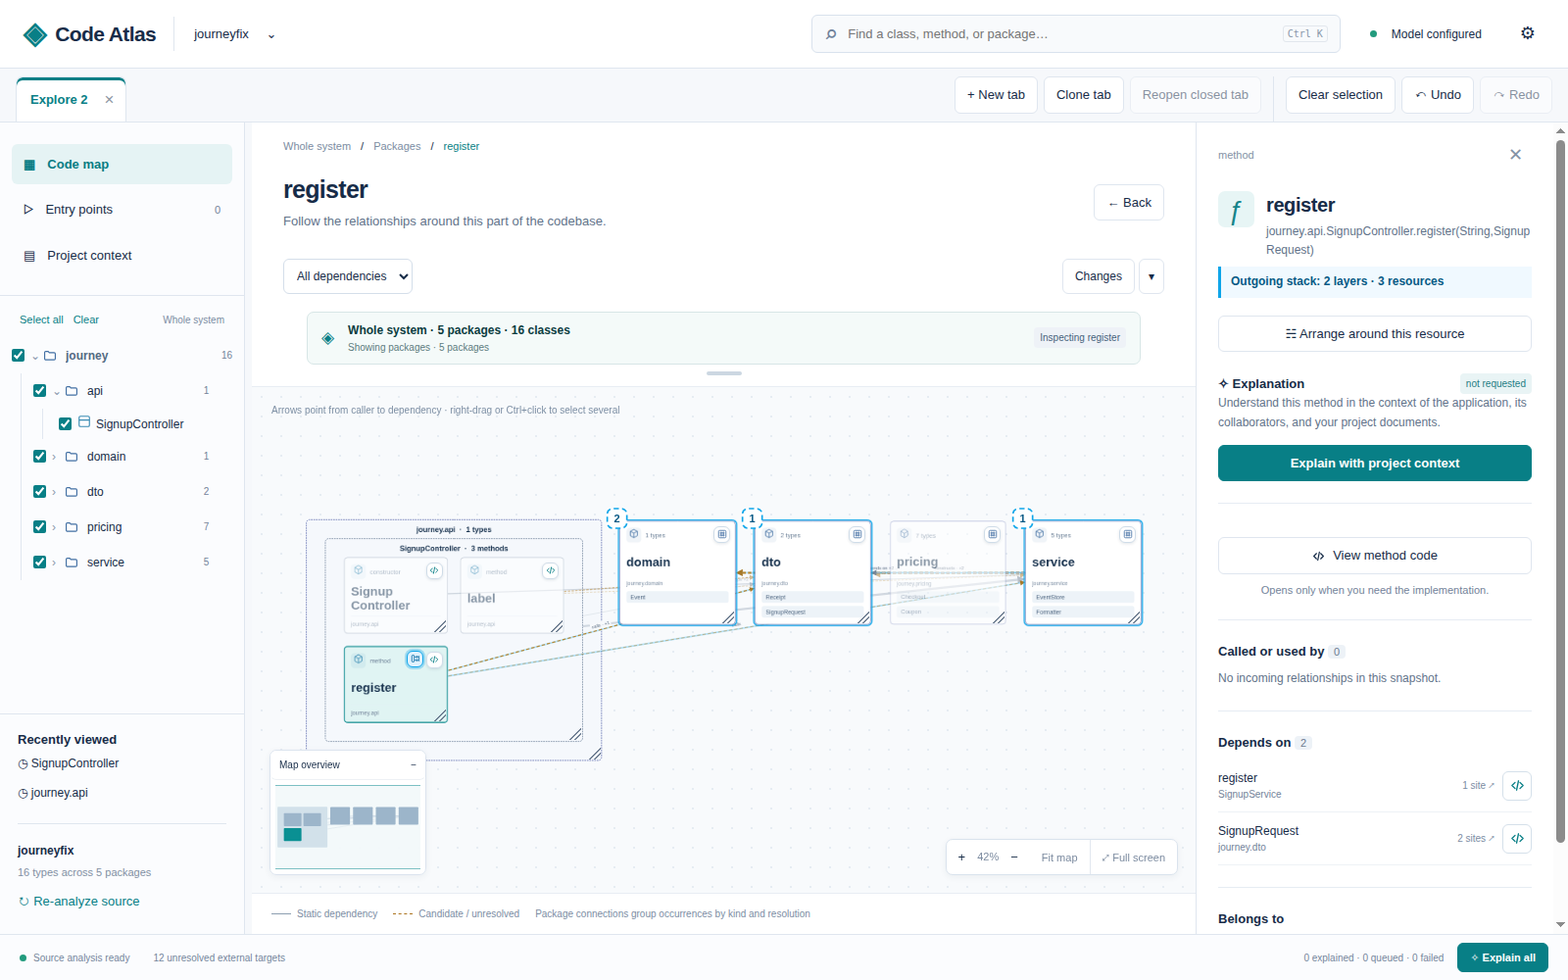
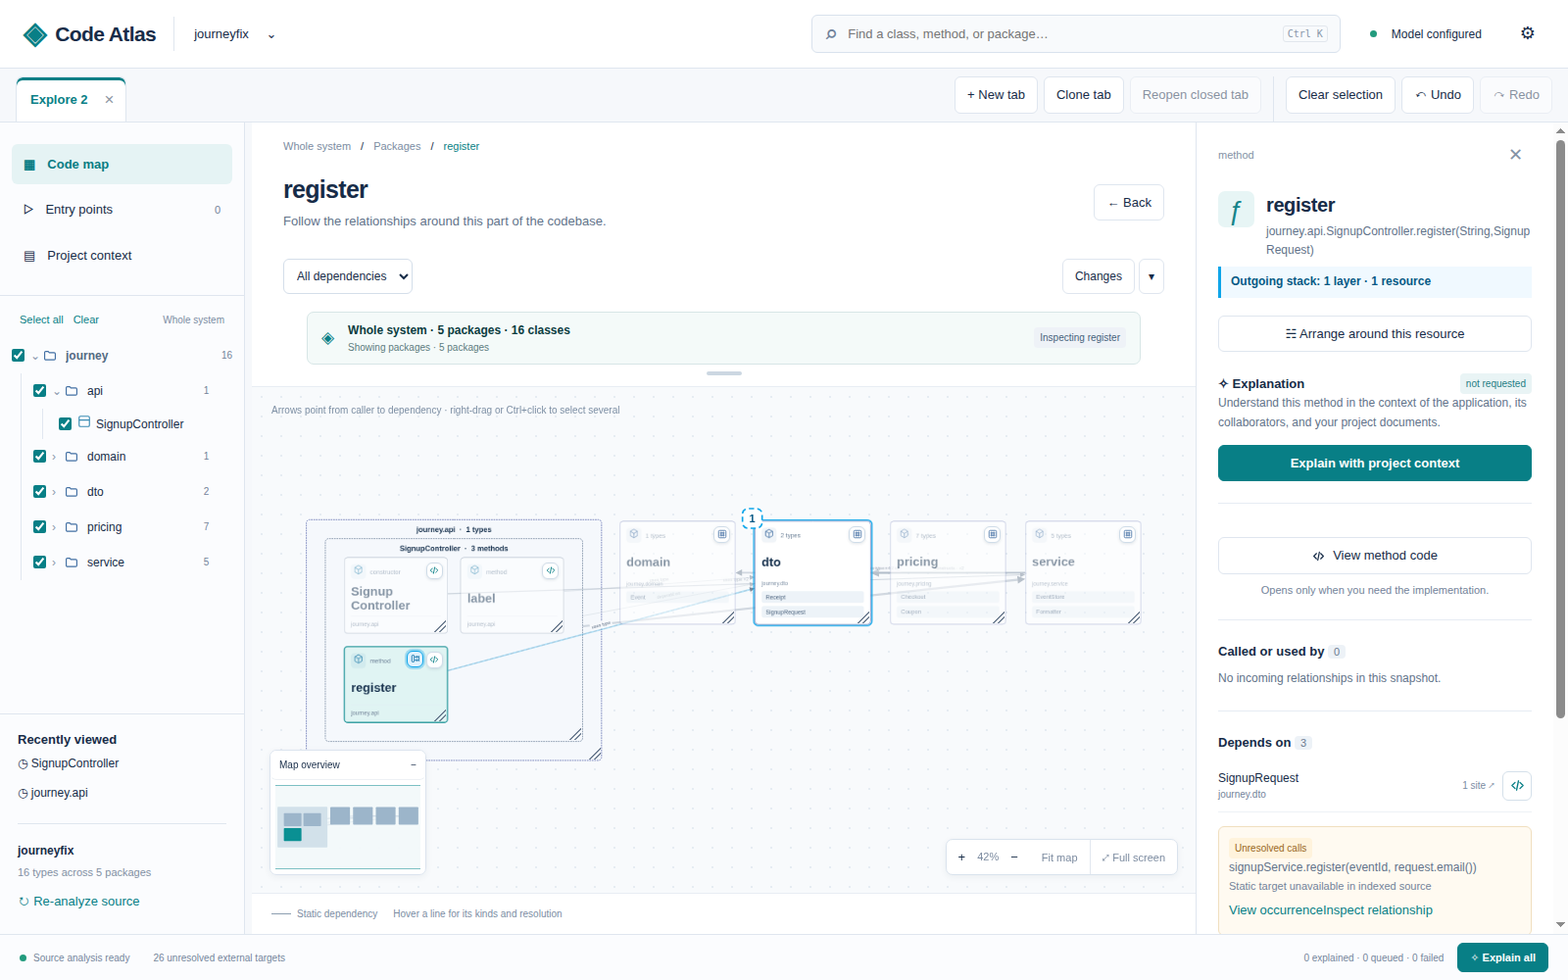
fix(review): capture analysis finds source roots by the workspace layout
A workspace that is a Git repository rooted at a src directory (main/java,
test/java) lost every solver-dependent fact in Changes mode: the review
captures under capture-*/base|head matched no src/main/java root, so e.g.
DeveloperWorkflowTest -> ExplanationResponse vanished. runReviewAnalysis now
passes the workspace root and setupSymbolSolver matches source roots by its
layout; ordinary analysis is unchanged (ADR 0006 amendment).
ReviewSourceRootParityTest reproduces it (red before, green after).

Also the step 12 follow-up PROJECT_STATUS entry, the refreshed
outgoing-stack evidence and the lead verification record.

Squashes b0bee6f, 072552a and dfc039e.

Claude-Session: https://claude.ai/code/session_01CpTnT7g7tBue4wsm3SGsik

diff --git a/src/test/java/dev/codeatlas/review/ReviewSourceRootParityTest.java b/src/test/java/dev/codeatlas/review/ReviewSourceRootParityTest.java
@@ -1,0 +1,121 @@
+package dev.codeatlas.review;
+
+import dev.codeatlas.analysis.AnalysisService;
+import dev.codeatlas.api.dto.ReviewRequest;
+import dev.codeatlas.api.dto.ReviewResponse;
+import org.junit.jupiter.api.Test;
+import org.junit.jupiter.api.io.TempDir;
+import org.springframework.beans.factory.annotation.Autowired;
+import org.springframework.boot.test.context.SpringBootTest;
+import org.springframework.jdbc.core.JdbcTemplate;
+import org.springframework.test.context.DynamicPropertyRegistry;
+import org.springframework.test.context.DynamicPropertySource;
+
+import java.nio.charset.StandardCharsets;
+import java.nio.file.Files;
+import java.nio.file.Path;
+import java.util.*;
+import java.util.concurrent.TimeUnit;
+
+import static org.junit.jupiter.api.Assertions.*;
+
+/**
+ * The Changes comparison must analyze the working tree the way the ordinary map does. Reproduces the user's report
+ * (a {@code DeveloperWorkflowTest -> ExplanationResponse} edge on the map that vanished in Changes mode): the
+ * workspace is a Git repository whose root is itself a {@code src} directory holding {@code main/java} and
+ * {@code test/java}. The ordinary analysis found those source roots because the root's own name completed
+ * {@code src/main/java}; the review captures are materialized under {@code capture-*}/{@code base|head}, so the same
+ * directories were not recognized, the symbol solver saw no in-source types, and every fact that needs it (a
+ * cross-file resolved call, a receiver type inferred from a call chain) disappeared from the comparison.
+ */
+@SpringBootTest
+class ReviewSourceRootParityTest {
+    private static final Path DATA;
+    static { try { DATA = Files.createTempDirectory("atlas-review-roots-db-"); } catch (Exception e) { throw new RuntimeException(e); } }
+
+    @DynamicPropertySource
+    static void database(DynamicPropertyRegistry registry) {
+        registry.add("codeatlas.data-dir", DATA::toString);
+        registry.add("spring.datasource.url", () -> "jdbc:sqlite:" + DATA.resolve("test.db"));
+    }
+
+    @Autowired private AnalysisService analysisService;
+    @Autowired private ReviewService reviewService;
+    @Autowired private JdbcTemplate db;
+
+    @TempDir Path temporary;
+
+    @Test
+    void aRepositoryRootedAtSrcKeepsSolverFactsInTheComparison() throws Exception {
+        Path repo = Files.createDirectories(temporary.resolve("project/src"));
+        write(repo, "main/java/app/api/Response.java", "package app.api;\npublic record Response(String status) {}\n");
+        write(repo, "main/java/app/api/Service.java", "package app.api;\npublic class Service {\n    public Response get() { return new Response(\"ok\"); }\n}\n");
+        write(repo, "test/java/app/flow/FlowTest.java", """
+            package app.flow;
+            import app.api.Service;
+            class FlowTest {
+                Service service;
+                void run() { service.get().status(); }
+            }
+            """);
+        git(repo, "init", "--initial-branch=main");
+        git(repo, "config", "user.name", "Review Roots Test");
+        git(repo, "config", "user.email", "review@example.invalid");
+        git(repo, "config", "commit.gpgsign", "false");
+        git(repo, "add", ".");
+        git(repo, "commit", "-m", "base");
+
+        String workspace = UUID.randomUUID().toString(), job = UUID.randomUUID().toString();
+        db.update("INSERT INTO workspaces (id, canonical_root, display_name, created_at, updated_at) VALUES (?, ?, 'review-roots', datetime('now'), datetime('now'))", workspace, repo.toAbsolutePath().normalize().toString());
+        db.update("INSERT INTO jobs (id, workspace_id, operation, status, created_at, updated_at) VALUES (?, ?, 'ANALYSIS', 'RUNNING', datetime('now'), datetime('now'))", job, workspace);
+        analysisService.runAnalysis(workspace, job);
+        String ordinary = db.queryForObject("SELECT active_snapshot_id FROM workspaces WHERE id = ?", String.class, workspace);
+
+        // The ordinary map has both solver-dependent facts.
+        Set<String> expected = Set.of(
+                "app.flow.FlowTest.run() -> app.api.Service.get() CALLS RESOLVED",
+                "app.flow.FlowTest -> app.api.Response DEPENDS_ON RESOLVED");
+        assertTrue(facts(ordinary).containsAll(expected), "ordinary: " + facts(ordinary));
+
+        ReviewResponse review = reviewService.capture(workspace, new ReviewRequest("1", "HEAD"));
+        assertTrue(facts(review.base().snapshotId()).containsAll(expected), "review base: " + facts(review.base().snapshotId()));
+        assertTrue(facts(review.head().snapshotId()).containsAll(expected), "review head: " + facts(review.head().snapshotId()));
+        assertEquals(facts(ordinary), facts(review.head().snapshotId()), "the head side analyzes the working tree like the ordinary map");
+
+        Map<String, String> headNames = new HashMap<>();
+        for (ReviewResponse.ReviewNode node : review.nodes()) if (node.head() != null) headNames.put(node.head().id(), node.head().qualifiedName());
+        Set<String> unchanged = new HashSet<>();
+        for (ReviewResponse.ReviewRelationship row : review.relationships()) {
+            assertEquals("UNCHANGED", row.change(), "nothing changed in the working tree: " + row);
+            unchanged.add(headNames.get(row.head().sourceId()) + " -> " + headNames.get(row.head().targetId()) + " " + row.head().kind() + " " + row.head().resolution());
+        }
+        assertTrue(unchanged.containsAll(expected), "comparison rows: " + unchanged);
+    }
+
+    /** Every relationship with a target in a snapshot, as "source -> target KIND RESOLUTION". */
+    private Set<String> facts(String snapshot) {
+        return new TreeSet<>(db.queryForList("""
+            SELECT s.qualified_name || ' -> ' || t.qualified_name || ' ' || r.kind || ' ' || r.resolution
+            FROM relationship_occurrences r JOIN symbol_versions s ON s.id = r.source_symbol_id JOIN symbol_versions t ON t.id = r.target_symbol_id
+            WHERE r.snapshot_id = ?""", String.class, snapshot));
+    }
+
+    private static void write(Path root, String relative, String text) throws Exception {
+        Path file = root.resolve(relative);
+        Files.createDirectories(file.getParent());
+        Files.writeString(file, text);
+    }
+
+    private static void git(Path repo, String... arguments) throws Exception {
+        List<String> command = new ArrayList<>(List.of("git", "-C", repo.toString()));
+        command.addAll(List.of(arguments));
+        ProcessBuilder builder = new ProcessBuilder(command).redirectErrorStream(true);
+        builder.environment().put("GIT_CONFIG_NOSYSTEM", "1");
+        builder.environment().put("GIT_CONFIG_GLOBAL", "/dev/null");
+        builder.environment().put("GIT_TERMINAL_PROMPT", "0");
+        Process process = builder.start();
+        assertTrue(process.waitFor(20, TimeUnit.SECONDS), "Git setup timed out: " + command);
+        String output = new String(process.getInputStream().readAllBytes(), StandardCharsets.UTF_8);
+        assertEquals(0, process.exitValue(), output);
+    }
+}

diff --git a/src/main/java/dev/codeatlas/analysis/JavaParserAdapter.java b/src/main/java/dev/codeatlas/analysis/JavaParserAdapter.java
@@ -46,18 +46,29 @@ public class JavaParserAdapter {
     public void addDiagnostic(String message) { diagnostics.add(message); }
     public JavaParserAdapter(JdbcTemplate db) { this.db = db; }
 
-    public void setupSymbolSolver(String workspacePath) {
+    public void setupSymbolSolver(String workspacePath) { setupSymbolSolver(workspacePath, Path.of(workspacePath)); }
+
+    /**
+     * Prepares the symbol solver for {@code analyzedPath}. A directory is a source root when its path, laid out under
+     * {@code layoutRoot} instead of {@code analyzedPath}, ends with {@code src/main/java} or {@code src/test/java}. An
+     * ordinary analysis passes its own path. A review capture passes the workspace root it was captured from: the
+     * capture lives under {@code capture-*}/{@code base|head}, so without this a repository rooted at a {@code src}
+     * directory (its {@code main/java} and {@code test/java} completed by the root's own name) found no source roots
+     * in review, the solver saw no in-source types, and the Changes comparison lost every fact that needs it.
+     */
+    public void setupSymbolSolver(String analyzedPath, Path layoutRoot) {
         diagnostics.clear();
         relationshipLookups.clear();
         indexedTypeNames.clear();
         typesWithConstructors.clear();
         recordCanonicalConstructors.clear();
         clearOverrideFacts();
-        root = Path.of(workspacePath).toAbsolutePath().normalize();
+        root = Path.of(analyzedPath).toAbsolutePath().normalize();
+        Path layout = layoutRoot.toAbsolutePath().normalize();
         CombinedTypeSolver solver = new CombinedTypeSolver(new ReflectionTypeSolver());
         try (var paths = Files.walk(root)) {
             List<Path> roots = paths.filter(Files::isDirectory)
-                .filter(p -> p.endsWith("src/main/java") || p.endsWith("src/test/java"))
+                .filter(p -> { Path logical = layout.resolve(root.relativize(p)); return logical.endsWith("src/main/java") || logical.endsWith("src/test/java"); })
                 .filter(p -> !Files.isSymbolicLink(p)).sorted().toList();
             if (roots.isEmpty()) solver.add(new JavaParserTypeSolver(root));
             else for (Path path : roots) solver.add(new JavaParserTypeSolver(path));

diff --git a/src/main/java/dev/codeatlas/analysis/AnalysisService.java b/src/main/java/dev/codeatlas/analysis/AnalysisService.java
@@ -203,11 +203,13 @@ public class AnalysisService {
      * Indexes a private, already-captured source tree for a review.  This shares the parser lock with
      * ordinary analysis, but deliberately has no job, change detection, active-snapshot update, or
      * explanation invalidation.  The captured tree is owned by the application, never by the target repo.
+     * {@code workspaceRoot} is the workspace the tree was captured from; source roots are found by its layout.
      */
-    public synchronized void runReviewAnalysis(String workspaceId, String snapshotId, Path capturedRoot) {
+    public synchronized void runReviewAnalysis(String workspaceId, String snapshotId, Path capturedRoot, Path workspaceRoot) {
         try {
             List<File> javaFiles = discoveryService.discoverJavaFiles(capturedRoot.toFile());
-            parserAdapter.setupSymbolSolver(capturedRoot.toString());
+            // Source roots follow the workspace's own layout, as in the ordinary analysis of the same tree.
+            parserAdapter.setupSymbolSolver(capturedRoot.toString(), workspaceRoot);
             List<SpringAnnotationAnalyzer.SpringAnalysisResult> springResults = new ArrayList<>();
             List<File> declarationFiles = new ArrayList<>();
             for (File file : javaFiles) {

diff --git a/src/main/java/dev/codeatlas/review/ReviewService.java b/src/main/java/dev/codeatlas/review/ReviewService.java
@@ -72,9 +72,9 @@ public class ReviewService {
             }
             String capturedAt = Instant.now().toString();
             baseSnapshot = createSnapshot(workspaceId, "REVIEW_BASE", "base=" + base.oid());
-            analysis.runReviewAnalysis(workspaceId, baseSnapshot, capture.resolve("base"));
+            analysis.runReviewAnalysis(workspaceId, baseSnapshot, capture.resolve("base"), repo);
             headSnapshot = createSnapshot(workspaceId, "REVIEW_HEAD", "head=" + headCapture.headOid() + ";fingerprint=" + frozenInput);
-            analysis.runReviewAnalysis(workspaceId, headSnapshot, capture.resolve("head"));
+            analysis.runReviewAnalysis(workspaceId, headSnapshot, capture.resolve("head"), repo);
             diagnostics.addAll(snapshotDiagnostics(baseSnapshot, "BASE"));
             diagnostics.addAll(snapshotDiagnostics(headSnapshot, "HEAD"));
             Comparison comparison = compare(baseSnapshot, headSnapshot, hunks, diagnostics);

diff --git a/PROJECT_STATUS.md b/PROJECT_STATUS.md
@@ -1,7 +1,9 @@
 # Project status
 Last updated: 2026-09-25
 Active milestone: R6 — Developer comprehension redesign (in progress)
-Current revision: step 12 phases B/C review fixes (analyzer visibility and lexical-receiver rules,
+Current revision: step 12 follow-up (candidate calls reverted, uniform route colour, Changes-mode
+source-root fix), on top of
+step 12 phases B/C review fixes (analyzer visibility and lexical-receiver rules,
 ADR 0010 amendment; keyboard card menu and stack focus retention), on top of
 step 12 phase C (full outgoing journey from any root: candidate calls and
 OVERRIDES facts, ADR 0010; type targets, dispatch, card-hop layers and the beyond-the-map count in
@@ -21,6 +23,112 @@ toggle with a git-style diff code viewer, exploration tabs with per-tab undo/red
 and selection controls, the R6 change-edges slice (one line per direction,
 directional selection emphasis, file-grouped evidence), in-place card details
 (expand packages/classes) and resizable cards; Step 6A remains unstarted
+
+## Step 12 follow-up: candidate calls reverted, uniform route colour, Changes-mode edge fix (2026-09-25)
+
+Three user-directed changes on branch `worktree-step12-bc-review-fixes`, one commit each, plus this
+status/evidence commit.
+
+- **Task 1, candidate calls reverted (`9969ab3`).** User decision: the map read as mostly yellow,
+  because one CANDIDATE among a route's resolved occurrences turns the aggregate amber. ADR 0010 D1
+  is withdrawn (dated amendment "candidate calls reverted"); OVERRIDES (D3) is kept unchanged. A
+  call the solver cannot resolve is `CALLS/UNRESOLVED` again, with no target and reason "Static
+  target unavailable in indexed source". The post-pass is `linkOverrides` in `JavaParserAdapter`
+  and `AnalysisService`; `PendingCall`, the pending lists, `lexicalTypes`, `solved`,
+  `lexicalReceiver`, `hasMethodNamed`, `inAnonymousOrLocalClass`, `nestHostByType`, `opaqueTypes`,
+  `OBJECT_METHODS` and the unused `MethodFacts.varargs/privateMethod` are removed.
+  - Tests: `CandidateCallsAndOverridesTest` → `UnresolvedCallsAndOverridesTest` (14 tests: every
+    former candidate case asserts UNRESOLVED, no target, the reason, and no CALLS/CANDIDATE
+    anywhere; the OVERRIDES tests are unchanged). `CandidateAndOverrideEdgeCasesTest` →
+    `OverridesAndUnresolvedCallEdgeCasesTest` (11 tests): C1/C2/F1 kept; the C3 tests kept (they
+    already asserted UNRESOLVED); the C4 tests converted to "stays UNRESOLVED, no target", plus a
+    no-CALLS/CANDIDATE check. None dropped.
+  - `scripts/verify-outgoing-stack-ui.mjs` (still 81 checks): the fixture check now asserts the
+    controller call stays UNRESOLVED and no CALLS/CANDIDATE exists. Method root
+    `SignupController.register` is dto 1 only ("1 layer · 1 resource"; its only call is
+    unresolved). The dispatch and beyond-the-map checks, which are not about candidates, now start
+    from `SignupService.register(String,String)`, whose `notifier.send` call resolves: Notifier,
+    dto and domain 1, MailNotifier 2 through reversed OVERRIDES, and EventStore not reached. With
+    domain out of scope, the result is "2 layers · 3 resources · 1 beyond the map". Two methods are
+    named `register`, so that stack is started by `data-card-id`, after zooming in so the corner
+    buttons show. `outgoingStack.ts` and `scripts/test-outgoing-stack.mjs` are unchanged.
+  - Probe (packaged jar on 8097, the same fixture copies, hashed unchanged, 0 model requests):
+    microservice-java 36 unresolved, 0 CALLS CANDIDATE, 0 OVERRIDES; online-book-store 247
+    unresolved, 0 CALLS CANDIDATE, 29 OVERRIDES. These are the pre-phase-C unresolved counts.
+- **Task 2, uniform route colour (`2564e3f`).** User decision, recorded as a dated amendment to
+  ADR 0008. The `edge[resolution != "RESOLVED"]` rule in `GraphCanvas.tsx`, the "Candidate /
+  unresolved" legend sample and its CSS are removed. The legend line "Package connections group
+  occurrences by kind and resolution" was inaccurate: routes group by ordered endpoints, whatever
+  the kind or resolution. It became "Hover a line for its kinds and resolution". The hover text and
+  the inspector are untouched; so are the Changes `reviewChange` colours and the selection dashes.
+  No script asserted amber/dashed unresolved routes. The git-review UNKNOWN dotted check is change
+  status, so it stays.
+- **Task 3, Changes-mode vanishing edge (`b0bee6f`).** The user's workspace
+  `second-review-assist/src` is itself a Git repository rooted at a `src` directory, holding
+  `main/java` and `test/java`. It was copied with `.git` (`cp -a`) to
+  `$JOB/tmp/changes/user-src/src`. The original was never touched, and the copy is hashed unchanged
+  after every probe.
+  - Trace: on the ordinary map, `DeveloperWorkflowTest -> ExplanationResponse` is one class-level
+    `DEPENDS_ON/RESOLVED` fact. Its six sites (`explanations.getExplanationForSymbol(snap,run).status()`,
+    `response.status()`, ...) come from `receiverType`, which needs the symbol solver. Neither review
+    snapshot had it. Package route `workflow -> api.dto` was missing in Changes (41 of 42 routes),
+    and 539 ordinary facts were absent from the head side.
+  - Root cause: `setupSymbolSolver` recognized source roots by absolute paths ending in
+    `src/main/java` / `src/test/java`. The ordinary run matched `<root>/main/java` only because the
+    root's own name is `src`. Review captures live under `capture-*/base|head`, so no root matched,
+    the solver saw no in-source types, and every solver-dependent fact vanished. It was not the
+    identity pairing in `ReviewService` nor the frontend projection: the facts never existed in the
+    review snapshots.
+  - Fix: `runReviewAnalysis(..., workspaceRoot)` and `setupSymbolSolver(capturedRoot,
+    workspaceRoot)`, which match each captured directory as laid out under the workspace root.
+    Ordinary analysis is unchanged. Recorded as a dated amendment to ADR 0006.
+  - Test: `ReviewSourceRootParityTest` (temp-dir Git repo rooted at `project/src`). Red before the
+    fix: "review base" lacked `FlowTest.run() -> Service.get() CALLS RESOLVED` and
+    `FlowTest -> Response DEPENDS_ON RESOLVED`. Green after, with head facts equal to the ordinary
+    facts and every comparison row UNCHANGED.
+  - After the fix, on the user copy (data probe on 8097; 0 model requests): 0 ordinary facts
+    missing from the head side, package routes 42/42, and no class-level route missing. Live canvas
+    (`changes-ui.mjs`, jar on 8095, snap Chromium on 9333, both stopped after): package level 42
+    ordinary routes, all present and visible in Changes (47 with added/removed); class level 167,
+    all present and visible (174). No page errors.
+
+Checks (this entry's final tree):
+- `JAVA_HOME=/usr/lib/jvm/java-21-openjdk-amd64 ./gradlew test`: PASS, 21 classes, 150 tests, 0
+  failures (149 after task 1, +1 `ReviewSourceRootParityTest`).
+- `for t in scripts/test-*.mjs; do node "$t" >/dev/null && echo "PASS $t" || echo "FAIL $t"; done`:
+  12/12 PASS.
+- `cd frontend && npx tsc -b --force && npm run build`: PASS.
+- `JAVA_HOME=/usr/lib/jvm/java-21-openjdk-amd64 ./gradlew bootJar`: PASS.
+- `git diff --check`: clean.
+- Browser suites, one at a time, each started fresh by `$JOB/tmp/isolated4.sh start` (jar on 8095
+  with its own data dir, model URL `http://127.0.0.1:9/v1`, snap Chromium on 9333, fixtures copied
+  and hashed); `stop` reported every fixture unchanged, 0 model requests and the ports free:
+  - `verify-outgoing-stack-ui.mjs`: 81/81 PASS (run `run-0l4y`). Its screenshots replace
+    `docs/evidence/outgoing-stack/`. 14, 15 and 16 were inspected: dto 1 only, with the unresolved
+    call listed in the inspector; Notifier, dto and domain 1, MailNotifier 2; "2 layers · 3
+    resources · 1 beyond the map"; the new legend. 07 (Changes mode) was inspected too: the
+    change fills and the green ADDED route colour are intact.
+  - `verify-explorer-journeys.mjs`: 51/51 PASS (run `run-NhOk`).
+  - `verify_git_review_pipeline.py` (`$JOB/tmp/run-git-review4.sh`): 41/41 PASS, 0 page errors,
+    source tree and Git index SHA-256 unchanged, no model requests. `01-ordinary-layout-before-changes`
+    (grey solid routes, new legend) and `02-changes-preserved-layout` (Changes fills and route
+    colours intact) were inspected.
+- The leftover `run-xkZA` jar and Chromium from the previous session were stopped through
+  `isolated4.sh stop` (fixtures unchanged). No other process was touched.
+- Rerun by the lead session on `072552a` before the Codex review handoff:
+  - `JAVA_HOME=/usr/lib/jvm/java-21-openjdk-amd64 ./gradlew constrainedMemoryTest --no-daemon`: PASS,
+    `BoundedExplanationScaleTest` 1/1;
+  - `./gradlew test`: PASS, 21 classes, 150 tests, 0 failures;
+  - all 12 node suites: PASS;
+  - `npx tsc -b --force && npm run build`: PASS;
+  - `git diff --check 8f472f9 HEAD`: PASS.
+
+  The review brief is `/home/sajjad/prompts/step12/followup-ultrareview-codex.md`.
+- Not run: `verify_stable_graph_pipeline.py`, `verify_hierarchical_pipeline.py` and
+  `verify_change_edges_pipeline.py` were not in this task's check list, and the changes do not
+  touch their areas beyond the removed style rule. No browser check asserts
+  that an uncertain route is drawn in the ordinary colour, because no browser fixture draws a
+  non-RESOLVED route after the revert. The rule deletion is covered by inspection only.
 
 ## Step 12 phases B/C review fixes (2026-09-25)
 

diff --git a/docs/adr/0006-git-review-snapshots.md b/docs/adr/0006-git-review-snapshots.md
@@ -165,3 +165,15 @@ review data when switching shared elements back to ordinary styling.
 A toggle remains one undoable action. Recompare invalidates history that refers to
 the superseded capture and reconciles review state for open and closed tabs.
 No model call, backend schema change, or target-repository execution is introduced.
+
+### Amendment (2026-09-25): source roots follow the workspace layout
+
+A capture is analyzed from `capture-*/base` and `capture-*/head`, but the symbol solver's source
+roots were found by matching absolute paths against `src/main/java` / `src/test/java`. For a
+repository whose root is itself a `src` directory, the ordinary analysis matched `main/java`
+through the root's own name and the captures did not, so the solver saw no in-source types in
+review and facts that need it (for example `DeveloperWorkflowTest -> ExplanationResponse`,
+a DEPENDS_ON inferred from a call chain) vanished in Changes mode. `runReviewAnalysis` now takes
+the workspace root, and `JavaParserAdapter.setupSymbolSolver(capturedRoot, workspaceRoot)` matches
+each capture directory as if it were laid out under the workspace root, so both sides find the
+same source roots as the ordinary analysis. Ordinary analysis is unchanged.

diff --git a/docs/TESTING.md b/docs/TESTING.md
@@ -7,6 +7,11 @@ Git fixtures are `GitReviewBoundaryTest` and `ReviewApiIntegrationTest`: real lo
 repositories cover upstream merge bases, staged/unstaged/untracked content, raw
 filter-free reads, binary files, retained source, line counts, repeated call sites,
 partial parsing, failure cleanup and preservation of the active analysis snapshot.
+`ReviewSourceRootParityTest` (2026-09-25) pins that the review captures find the same source roots
+as the ordinary analysis: for a repository rooted at a `src` directory (`main/java`, `test/java`),
+a cross-file resolved CALLS and a DEPENDS_ON inferred from a call chain's receiver type exist on
+the ordinary map, on both review sides and as UNCHANGED comparison rows (the user's vanishing
+`DeveloperWorkflowTest -> ExplanationResponse` edge).
 `node scripts/test-review-model.mjs` checks frontend side and occurrence identities,
 ordinary-map display alignment, duplicate declarations and ambiguous ancestors.
 `node scripts/test-review-placement.mjs` exercises the shared geometry helper and
